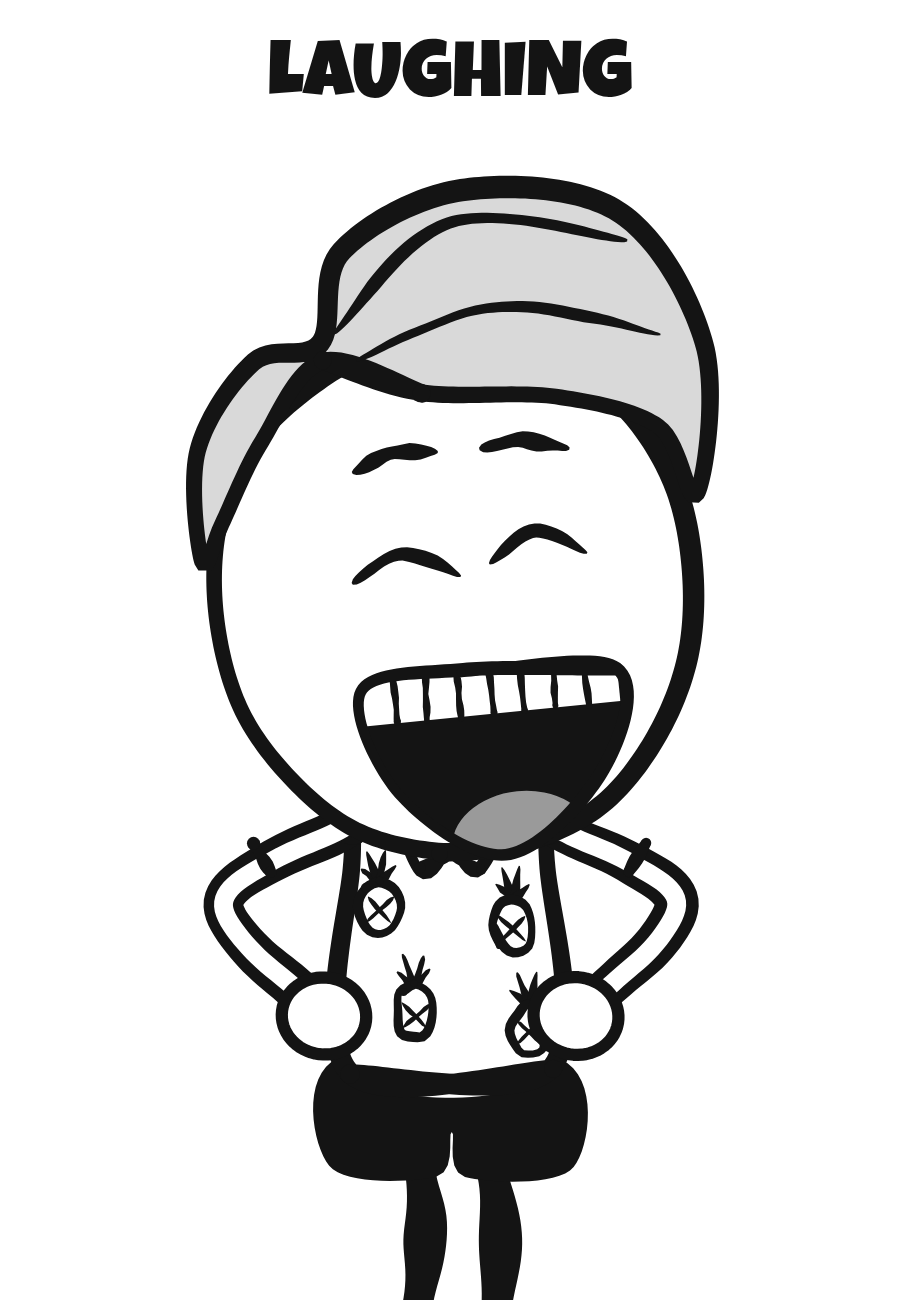
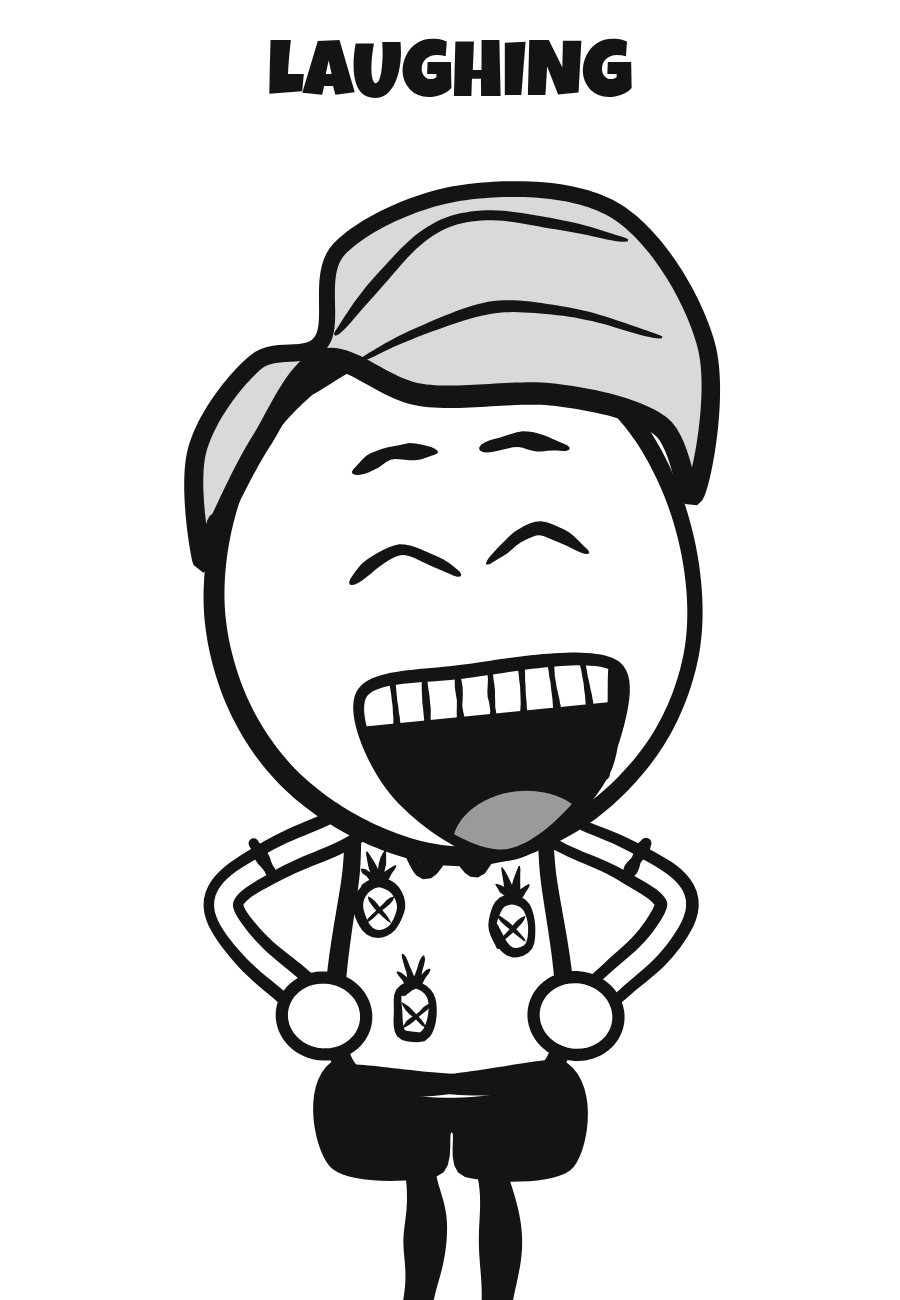
Ludwig's shirt leaves out any pineapple a hand would rest on, so no print pokes out from behind a hand
Claude-Session: https://claude.ai/code/session_01BoxvgZ1TpRreVfD9rN3XD5

diff --git a/web/cameos.js b/web/cameos.js
@@ -222,11 +222,12 @@ const Cameos = (() => {
     body: { hipY: -172, neckY: -352, legW: 21, footX: 18, hipX: 20, torso: (n, h) => [[-42, n], [42, n], [56, n + 60], [58, h - 4], [-58, h - 4], [-56, n + 60]] },
     headScale: [0.92, 1.06],
     head: head({ hair: swoop(), eyeLop: { side: -1, dy: 0.12, s: 1.07 } }),   // lopsided eyes: the screen-right eye (he faces left) a little lower and bigger
-    detail: (ctx, n) => {
+    detail: (ctx, n, h, hands = []) => {
       outline(ctx, [[-40, n - 2], [0, n + 44], [-18, n + 60]], { w: 7 });
       outline(ctx, [[40, n - 2], [0, n + 44], [18, n + 60]], { w: 7 });
       for (let i = 0; i < 4; i++) {   // pineapples: crosshatched body, crown of leaves
         const x = [-40, 36, -20, 46][i], y = n + [82, 92, 142, 152][i];
+        if (hands.some(([hx, hy]) => Math.hypot(hx - x, hy - (y - 6)) < 44)) continue;   // a hand rests here: leave this pineapple out, so none pokes out from behind a hand
         for (const a of [-0.9, -0.35, 0.2, 0.75]) {
           const r = a === -0.35 || a === 0.2 ? 20 : 14;
           stroke(ctx, [[x, y - 14], [x + Math.sin(a) * r, y - 14 - Math.cos(a) * r]], { w: 5, taper0: 0.1, taper1: 0.9 });

diff --git a/web/characters.js b/web/characters.js
@@ -569,7 +569,12 @@ const Chars = (() => {
       fill(ctx, torso, S.torsoFill ?? W, 0.5);
       outline(ctx, torso, { w: 10 });
     }
-    S.torsoDetail?.(ctx, neckY, hipY);
+    {   // where the hands will rest, so a shirt print can stay clear of them
+      const elY = neckY + S.shY + (hipY - neckY) * 0.42;
+      const hands = p.crossArms ? [[S.shX + S.armW * 0.2, elY - S.armW * 0.6], [-(S.shX + S.armW * 0.45), elY - S.armW * 0.15]]
+        : [p.armL ?? [-S.restX, hipY + S.restY], p.armR ?? [S.restX, hipY + S.restY]];
+      S.torsoDetail?.(ctx, neckY, hipY, hands);
+    }
 
     const arm = (side, target, bend, point, hold, front = false) => {
       const sh = [side * S.shX, neckY + S.shY];
